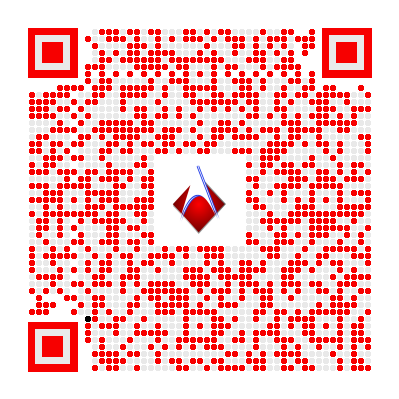
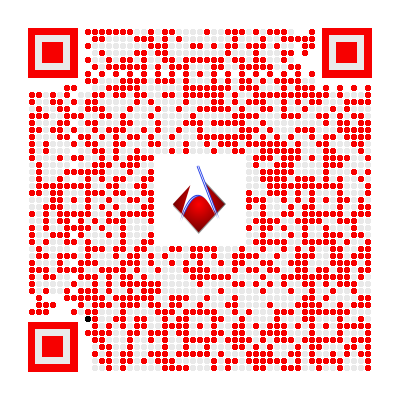
student profile edit

Changed region(s): [[0.0602, 0.0602, 0.9323, 0.9323], [0.2105, 0.9023, 0.2406, 0.9323], [0.1203, 0.5113, 0.1504, 0.5414]]

diff --git a/public_html/js/studentDashboard.js b/public_html/js/studentDashboard.js
@@ -6,6 +6,7 @@ window.onload = function() {
             if(msg == "OK") {
                 fill_info();
                 form_submit();
+                edit_profile();
                 console.log("#internetCheck:checked")
             }
             else {
@@ -27,6 +28,7 @@ function fill_info() {
             msg = JSON.parse(msg);
             if(msg['result'] == "OK") {
                 $("#name").html(msg['student']);
+                $("#formEmail").val(msg['email']);
                 $("#report-list").html(msg['reports']);
             }
         },
@@ -56,6 +58,7 @@ function form_submit() {
             messages: 
             {
                 pc: "Please enter PC Number",
+                usability: "Please confirm if the computer is usable",
                 issueCheck: "Please choose an option or write description"
             },
             errorElement: "div",
@@ -101,10 +104,11 @@ function form_submit() {
                             $("#result").html("<div class='alert alert-success py-0'>Success!</div>");
                             $("#result").show();
                             setTimeout(function() {$('#result').fadeOut();}, 3000);
+                            fill_info();
                         } 
                         else {
                             console.log(msg)
-                            $("#result").html("<div class='alert alert-danger py-0'>"+ msg + "</div>");
+                            $("#result").html("<div class='alert alert-danger text-white py-0'>"+ msg + "</div>");
                             $("#result").show();
                             setTimeout(function() {$('#result').fadeOut();}, 3000);
                         }
@@ -122,6 +126,62 @@ function form_submit() {
     }
 }
 
+function edit_profile() {
+    if ($('#edit-form').length > 0 ) {
+        $( "#edit-form" ).validate( {
+            rules: {
+                formEmail: "required",
+                formCurrentPassword: "required"
+            },
+            messages: 
+            {
+                formEmail: "Please enter Email",
+                formCurrentPassword: "Please Enter Current Password"
+            },
+            errorElement: "div",
+            errorLabelContainer: "error",
+            errorPlacement: function(error, element) {
+                if($(element).attr("name") == "issueCheck"){
+                    error.insertAfter($(element).parent().parent().next());
+                }
+                else {
+                    error.insertBefore(element);
+                }
+            },
+
+            /* submit via ajax */
+            
+            submitHandler: function(form) {
+                $.ajax({   	
+                    type: "POST",
+                    url: "../php/editStudentProfile.php",
+                    data: $(form).serialize(),
+
+                    success: function(msg) {
+                        if (msg == 'OK') {
+                            $("#edit-result").html("<div class='alert alert-success py-0'>Success!</div>");
+                            $("#edit-result").show();
+                            setTimeout(function() {$('#edit-result').fadeOut();}, 3000);
+                        } 
+                        else {
+                            console.log(msg)
+                            $("#edit-result").html("<div class='alert alert-danger text-white py-0'>"+ msg + "</div>");
+                            $("#edit-result").show();
+                            setTimeout(function() {$('#edit-result').fadeOut();}, 3000);
+                        }
+                    },
+                    error: function() {
+                        fill_info();
+                        $('#edit-result').html("Something went wrong. Please try again.");
+                        $("#edit-result").show();
+                        setTimeout(function() {$('#edit-result').fadeOut();}, 3000);
+                    }
+                });
+            } // end submitHandler
+
+        });
+    }
+}
 
 function is_required(id) {
     var required = true;

diff --git a/public_html/student/student-dashboard.html b/public_html/student/student-dashboard.html
@@ -77,7 +77,7 @@
             <div class="card-header pb-3 p-3">
               <h6 class="mb-0">Report an Issue</h6>
             </div>
-            <div id="loading" class="spinner-border text-primary" role="status">
+            <div id="loading" class="spinner-border text-primary fixed-top" role="status">
               <span class="sr-only">Loading...</span>
             </div>
             <div id="result" class="text-center m-auto w-50">
@@ -148,6 +148,37 @@
               <ul class="list-group" id="report-list">
                 
               </ul>
+            </div>
+          </div>
+        </div>
+        <div class="col-12 col-xl-8 mt-4">
+          <div class="card bg-gray-200 mb-4">
+            <div class="card-header pb-0 p-3">
+              <h6 class="mb-1">Edit Profile</h6>
+            </div>
+            <div class="card-body p-3">
+              <div id="edit-result" class="text-center m-auto w-50"></div>
+              <form method="post" id="edit-form">
+                <div class="d-flex">
+                  <div class="form-group w-40">
+                    <label for="formEmail">Email<span style="color: red;">*</span></label>
+                    <input type="text" class="form-control" id="formEmail" name="formEmail" placeholder="Email">
+                  </div>
+                  <div class="form-group ms-5">
+                    <label for="formCurrentPassword">Current Password<span style="color: red;">*</span></label>
+                    <input type="password" class="form-control" id="formCurrentPassword" name="formCurrentPassword" placeholder="Current password">
+
+                    <label for="formNewPassword">New Password</label>
+                    <input type="password" class="form-control" id="formNewPassword" name="formNewPassword" placeholder="New password">
+
+                    <label for="formConfirmPassword">Confirm Password</label>
+                    <input type="password" class="form-control" id="formConfirmPassword" name="formConfirmPassword" placeholder="Confirm password">
+                  </div>
+                </div>
+                <div class="d-flex justify-content-center">
+                  <button type="submit" class="btn btn-primary">Save</button>
+                </div>
+              </form>
             </div>
           </div>
         </div>

diff --git a/public_html/php/editStudentProfile.php b/public_html/php/editStudentProfile.php
@@ -1,0 +1,96 @@
+<?php
+    session_start();
+    @include 'config.php';
+    require_once __DIR__.'/vendor/autoload.php';
+    include 'mail/mailConfig.php';
+    include 'QRImageWithLogo.php';
+    use chillerlan\QRCode\QRCode;
+
+    if($_POST)
+    {
+        $userId = $_SESSION['student_id'];
+
+        $currentPassword = $_POST['formCurrentPassword'];
+        $newPassword = $_POST['formNewPassword'];
+        $email = $_POST['formEmail'];
+        $email = filter_var($email, FILTER_SANITIZE_EMAIL);
+        $email = filter_var($email, FILTER_VALIDATE_EMAIL);
+
+        $query = mysqli_query($conn, "SELECT password FROM students WHERE student_id = $userId;");
+        $student = mysqli_fetch_assoc($query);
+
+        $error = "";
+
+        if(!$email)
+        {
+            $error .= "Invalid Email Address<br>";
+        }
+        else
+        {
+            $query = mysqli_query($conn, "SELECT email FROM students WHERE email='$email' AND student_id!=$userId;");
+            $usedEmail = mysqli_fetch_assoc($query);
+            if(!empty($usedEmail))
+            {
+                $error .= "Email already in use<br>";
+            }
+        }
+
+        if(!password_verify($currentPassword, $student['password']))
+        {
+            $error .= "Incorrect Password<br>";
+        }
+
+        if($error != "")
+        {
+            echo $error;
+        }
+        else
+        {
+            $update = "";
+
+            if(!empty($newPassword)) 
+            {
+                $hash = password_hash($newPassword, PASSWORD_DEFAULT);
+                $update = "UPDATE students SET email = '$email', password = '$hash' WHERE student_id = '$userId';";
+                $qrcode = new QRCode($options);
+                $qrcode->addByteSegment($userId."|".$hash);
+                $qrOutputInterface = new QRImageWithLogo($options, $qrcode->getQRMatrix());
+                $out = $qrOutputInterface->dump('qrcode.png', '../images/aclc-logo.png');
+            }
+            else
+            {
+                $update = "UPDATE students SET email = '$email' WHERE student_id = '$userId';";
+            }
+            
+            $query = mysqli_query($conn, $update);
+
+            if($query)
+            {
+                $body = "<p>Dear Student,</p>";
+                $body .= "<p>Your password for the ACLC Apalit Laboratories have been changed.</p>";
+                $body .= "<p>Your password is '$newPassword'.</p>";
+                $body .= "<p>Please use the newly generated QR Code below.</p>";
+                $body .= "<p><img src='cid:my-attach' /></p>";
+                $body .= "<p>Login at the <a href='https://aclcapalitlabs.000webhostapp.com/'>ACLC Apalit Labs Website</a></p>";
+                $body .= "<p>Enjoy!</p>";
+                $body .= "<p>ACLC Apalit Laboratories</p>";
+
+                $mail->addAddress($email); // to email and name
+                $mail->Subject = 'Password Changed - ACLC Apalit Laboratories';
+                $mail->AddEmbeddedImage("qrcode.png", "my-attach", "qr-code");
+                $mail->msgHTML($body);
+                $mail->AltBody = 'HTML messaging not supported';
+
+                if(!$mail->send()){
+                    return "Mailer Error: " . $mail->ErrorInfo;
+                }else{
+                    echo "OK";
+                }
+            }
+            else
+            {
+                echo mysqli_error($conn);
+            }
+        }
+    }
+?>

diff --git a/public_html/php/getStudentProfile.php b/public_html/php/getStudentProfile.php
@@ -5,13 +5,15 @@
     $data = array(
         'result' => '',
         'student' => '',
+        'email' => '',
         'reports' => '',
     );
 
     $usn = $_SESSION['student_id'];
-    $query = mysqli_query($conn, "SELECT name FROM students WHERE student_id = $usn;");
+    $query = mysqli_query($conn, "SELECT name, email FROM students WHERE student_id = $usn;");
     $student = mysqli_fetch_assoc($query);
     $data['student'] = $student['name'];
+    $data['email'] = $student['email'];
 
     $query = mysqli_query($conn,"SELECT * FROM reports WHERE submitted_by = $usn;");
     $row = array();

diff --git a/public_html/php/addStudent.php b/public_html/php/addStudent.php
@@ -19,7 +19,7 @@ function send_mail($name, $password, $emailTo, $mail)
   $body .= "<p>ACLC Apalit Laboratories</p>";
 
   $mail->addAddress($emailTo, $name); // to email and name
-  $mail->Subject = 'PHPMailer GMail SMTP test';
+  $mail->Subject = 'Account Activated - ACLC Apalit Laboratories';
   $mail->AddEmbeddedImage("qrcode.png", "my-attach", "qr-code");
   $mail->msgHTML($body);
   $mail->AltBody = 'HTML messaging not supported';
